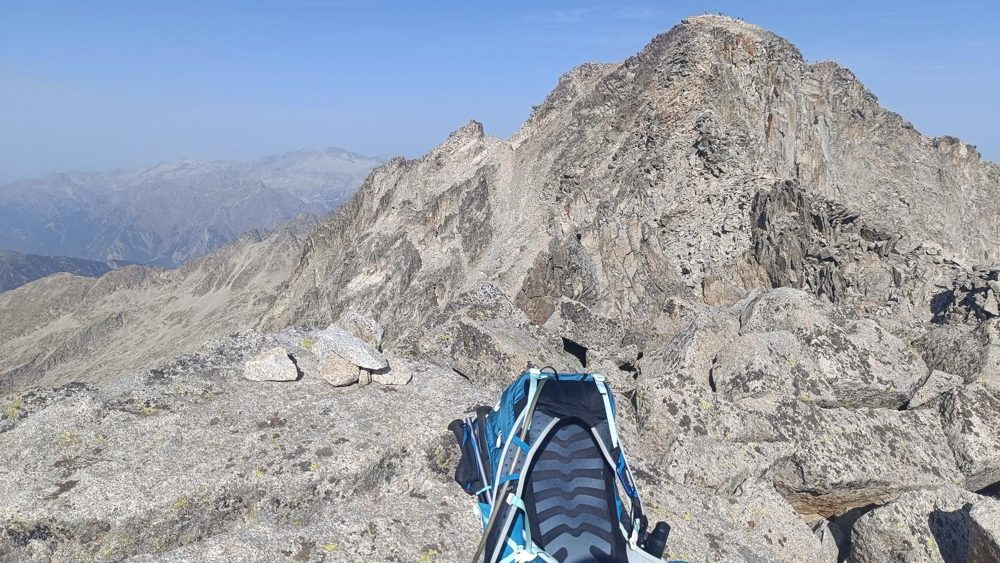
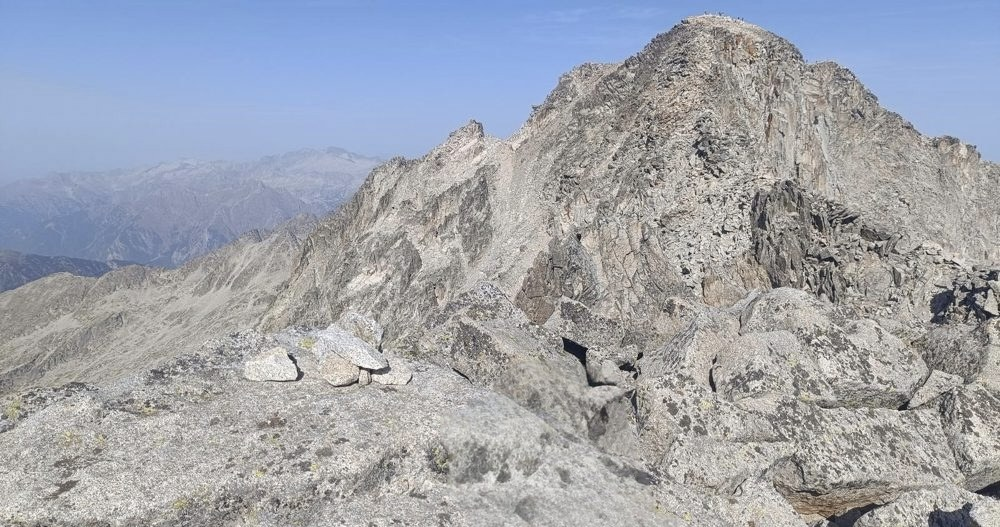
Foto de la cima de la Espalda de Aneto sin la mochila (v298)
Claude-Session: https://claude.ai/code/session_012dWCLNNe2bGWrPUReqwHH1

diff --git a/index.html b/index.html
@@ -3,7 +3,7 @@
 <head>
   <meta charset="utf-8">
   <script>/* versión publicada: si el navegador muestra una copia vieja de esta página, recarga sola con la nueva (version.json no se guarda en caché) */
-  window.WEB_V = 297;
+  window.WEB_V = 298;
   fetch('version.json?t=' + Date.now(), { cache: 'no-store' }).then((r) => r.json()).then((j) => {
     if (!(j.v > window.WEB_V)) return;
     const u = new URL(location.href); if (u.searchParams.get('r') === String(j.v)) return;   // ya se pidió esa versión: no repetir
@@ -121,7 +121,7 @@
 
   <script data-goatcounter="https://skyllion.goatcounter.com/count" async src="https://gc.zgo.at/count.js"></script>
   <script>window.DATOS_V = 203;</script>
-  <script type="module" src="js/main.js?v=297"></script>
+  <script type="module" src="js/main.js?v=298"></script>
   <script defer src="js/cine.js?v=6"></script>
 </body>
 </html>
